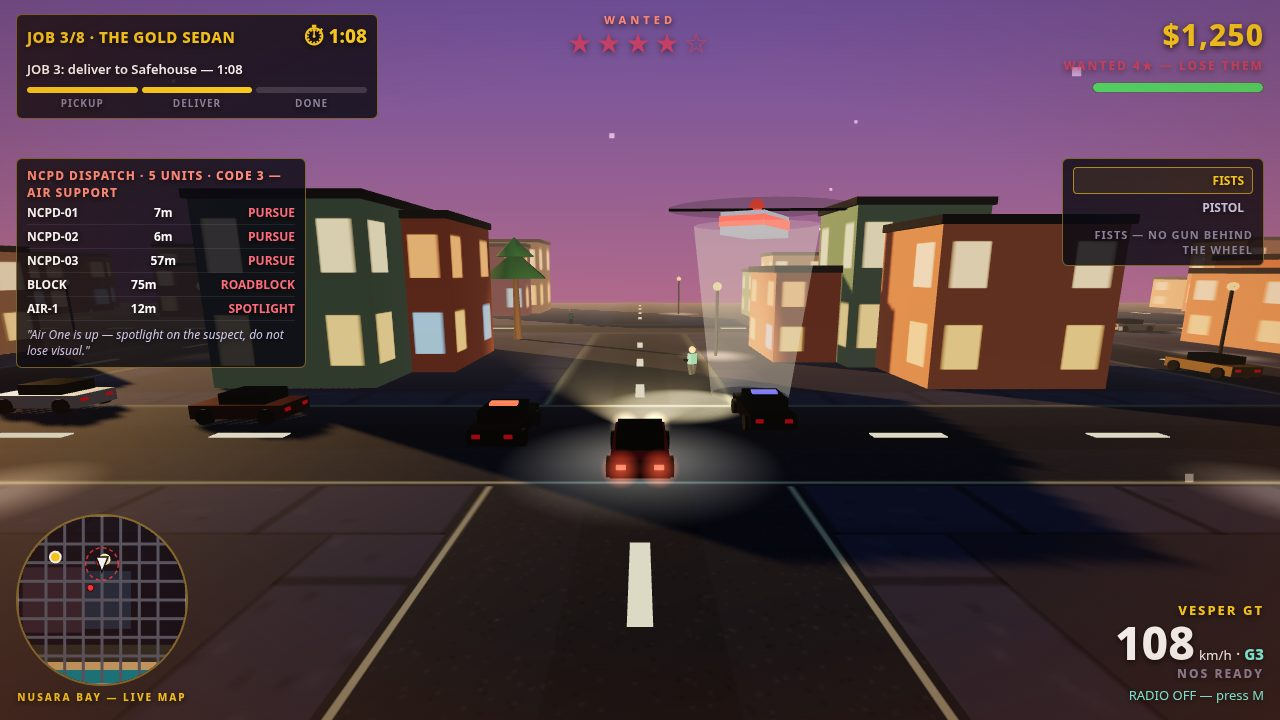
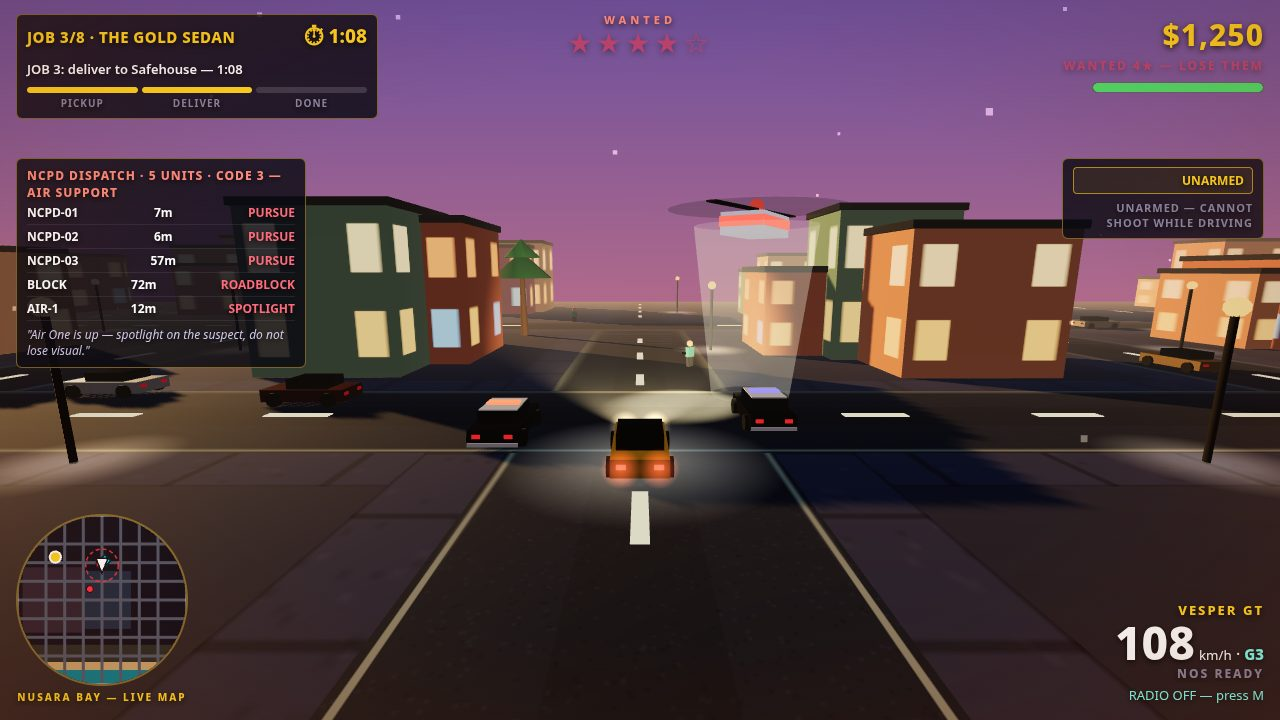
Final fix: honest weapon states, gold cover car, harbor crane + cruiser formation, minimap dots, wording
- hud.js: weapon panel is states, not weapons — PISTOL on foot, UNARMED
  while driving (no FISTS: there is no melee code anywhere)
- vehicles.js: hero clearcoat metalness 0.8 -> 0.35 so the gold sedan
  reads gold from behind (the chase camera sees its shadow side; a
  fully metallic hero goes black with no environment map). Police
  light bars brighter, white roof + rear stripe, brighter tail lights.
- shots.js: chase car is the gold sedan (0xd9a527); steal stages Job 1's
  pickup phase with the real objective; harbor restaged on the street
  north of the dock (crane fully in frame) with ALL cruisers pinned in
  a formation — at five stars the pursuit otherwise parks one on Dara
  (3m) and starts the busted timer
- minimap.js: heli dot is a cyan diamond, distinct from the gold
  objective circle
- story.js: 'spike strips ready' -> roadblocks; Job 7 briefing describes
  the East Pier pickup + safehouse delivery actually implemented
- README.md: 'a harbor heist' -> 'a dockside lift' (Job 4's title)

Verified: makefun check 4 passed 0 failed; headless suite 19/19 pass
(all 8 jobs incl. race fail path + finale, heli at 4 stars, 0 console
errors, 0 external requests); save/reload probe passes; main.ts runs
twice byte-identical; all 4 screenshots re-shot and viewed (full size
+ 320x180 contact sheet).

diff --git a/game/src/shots.js b/game/src/shots.js
@@ -25,11 +25,13 @@ export function stageShot(G, name, seed) {
   const input = G.input;
   let t = 0;
   if (name === 'chase') {
-    // Cover: Dara mid-chase downtown at 4 stars. The hero car is the
-    // subject, two cruisers flank close alongside it with their light bars
-    // flashing (inside the frame, not at the edges where they read as
-    // traffic), and the helicopter hangs ahead and to the side, low enough
-    // to sit clear of the wanted stars. Job 3 on the clock.
+    // Cover: Dara mid-chase downtown at 4 stars, driving the marked gold
+    // sedan from Job 3 — the job's premise is stealing that sedan, so the
+    // cover shows it, not an ordinary red car. Two cruisers flank close
+    // alongside it with their light bars flashing (inside the frame, not
+    // at the edges where they read as traffic), and the helicopter hangs
+    // ahead and to the side, low enough to sit clear of the wanted stars.
+    // Job 3 on the clock.
     //
     // The cruisers and the helicopter are PINNED to the player car every
     // frame by the autopilot below, the same way the helicopter already
@@ -38,7 +40,7 @@ export function stageShot(G, name, seed) {
     // the moment of a real chase; it does not fake a state the game cannot
     // reach. The briefing dialogue is deliberately NOT shown here — its
     // panel sat across the middle of the frame, hiding the cruisers.
-    const car = createCar(G.scene, 0, 24, Math.PI, 0xc94f4f, false, true);
+    const car = createCar(G.scene, 0, 24, Math.PI, 0xd9a527, false, true);
     G.player.getIn(car, G);
     car.speed = 22;
     G.police.wanted = 4;
@@ -93,6 +95,11 @@ export function stageShot(G, name, seed) {
   if (name === 'steal') {
     // On foot on the market street beside a parked car, prompt up, a cruiser
     // closing in the background, pedestrians scattering from passing traffic.
+    // Staged as Job 1 in its pickup phase — the state fresh play actually
+    // shows (startJob(0) runs the moment the game starts), not the idle
+    // free-roam objective the old staging used. The pickup marker is 12
+    // units north of Dara, outside the 7-unit pickup radius, so the job
+    // cannot complete itself during the staging.
     const car = createCar(G.scene, -77.5, 4.4, Math.PI / 2, 0x4f7ec9);
     car.parked = true;
     G.parked.push(car);
@@ -101,6 +108,12 @@ export function stageShot(G, name, seed) {
     G.player.heading = Math.PI / 2;
     G.player.mesh.position.set(-80, 0, 4.4);
     G.police.wanted = 1;
+    G.missions.jobIndex = 0;
+    G.missions.phase = 'pickup';
+    G.missions.timer = 0;
+    G.missions.objective = 'JOB 1: First Fare — go to Night Market';
+    G.missions.placeMarker(-80, -8);
+    G.minimap.setObjective(-80, -8);
     G.cash = 250;
     return (dt) => {
       t += dt;
@@ -108,27 +121,30 @@ export function stageShot(G, name, seed) {
     };
   }
   if (name === 'harbor') {
-    // The five-star finale (Job 8) at the dock: Dara on foot in the container
-    // yard, the gold getaway car ahead with the teal water behind it, a
-    // gantry crane to the side, a cruiser sweeping past, and the helicopter
+    // The five-star finale (Job 8) at the dock: Dara on foot on the street
+    // just north of the dock, facing east straight down the dock toward
+    // the gantry crane. The crane is 70 units ahead, so its 26-unit frame
+    // sits comfortably inside the on-foot camera's view instead of being
+    // cut off at the top edge, and its jib reads side-on, the most
+    // recognizable crane silhouette. Standing north of the container
+    // stacks keeps the sightline to the crane clear of them. The gold
+    // getaway car sits ahead to the left, three cruisers are pinned in a
+    // formation ahead of Dara, facing the camera, and the helicopter hangs
     // overhead. A real gameplay state — Job 8 in its deliver phase at five
-    // stars — with no staged toast and no posed save. The gold car sits
-    // close in front of Dara, so the mid-ground is the getaway car and not
-    // empty dock.
-    const car = createCar(G.scene, -64, 114, Math.PI / 2, 0xd9a527, false, true);
+    // stars — with no staged toast and no posed save. The crane's legs and
+    // jib are the proof this is a working harbor, not any waterfront
+    // container yard.
+    const car = createCar(G.scene, -103, 88, Math.PI / 2, 0xd9a527, false, true);
     car.parked = true;
     G.parked.push(car);
-    G.player.pos.x = -70;
-    G.player.pos.z = 106;
-    G.player.heading = 0;
-    G.player.mesh.position.set(-70, 0, 106);
+    G.player.pos.x = -115;
+    G.player.pos.z = 96;
+    G.player.heading = Math.PI / 2;
+    G.player.mesh.position.set(-115, 0, 96);
     G.police.wanted = 5;
-    // One cruiser sweeping east along the dock's south edge, in frame.
-    const c1 = G.police.spawnCruiser(G);
-    c1.pos.x = -100;
-    c1.pos.z = 126;
-    c1.heading = Math.PI / 2;
-    c1.speed = 20;
+    // One cruiser up front so the formation has something to pin from the
+    // first frame; the pursuit spawns the rest to match five stars.
+    G.police.spawnCruiser(G);
     G.missions.jobIndex = 7;
     G.missions.phase = 'deliver';
     G.missions.timer = 96;
@@ -137,16 +153,39 @@ export function stageShot(G, name, seed) {
     G.cash = 8150;
     return (dt) => {
       t += dt;
-      // Pin the helicopter ahead and to the right of Dara, low enough to
-      // clear the wanted stars — the old pin (14 ahead, y 9) put its body
-      // at the very top edge, the rotor clipped by the frame. The on-foot
-      // camera sits lower and closer than the chase cam, so the same height
-      // reads higher here: 16 ahead and y 8 puts the whole aircraft,
-      // rotor disc included, in the upper third. Same rule as the cover,
-      // and the pin is close to the helicopter's own hover height (y 9), so
-      // the body barely moves when the pin stops at capture time.
       const p = G.player.pos;
       const h = G.player.heading;
+      const fx = Math.sin(h);
+      const fz = Math.cos(h);
+      const rx = -Math.cos(h);
+      const rz = Math.sin(h);
+      // Pin EVERY cruiser into a formation ahead of Dara. At five stars
+      // the pursuit spawns three cruisers that steer straight for Dara on
+      // foot — left alone one parks on top of him (3m, overlapping the
+      // shot) and the busted timer starts. The formation keeps them in
+      // frame, facing the camera, clear of Dara, the gold car and each
+      // other. The same pin the cover uses; the light bars keep flashing
+      // because police.update still runs.
+      const slots = [
+        [20, -10],
+        [26, 4],
+        [34, -16],
+      ];
+      G.police.cruisers.forEach((c, i) => {
+        const [ahead, side] = slots[i % slots.length];
+        const cx = p.x + fx * ahead + rx * side;
+        const cz = p.z + fz * ahead + rz * side;
+        c.pos.x = cx;
+        c.pos.z = cz;
+        c.heading = h + Math.PI;
+        c.speed = 0;
+        c.mesh.position.set(cx, 0, cz);
+        c.mesh.rotation.y = c.heading;
+      });
+      // Pin the helicopter ahead and to the right of Dara, low enough to
+      // clear the wanted stars — same rule as the cover, and the pin is
+      // close to the helicopter's own hover height (y 9), so the body
+      // barely moves when the pin stops at capture time.
       G.heli.mesh.position.set(
         p.x + Math.sin(h) * 16 - Math.cos(h) * 6,
         8,

diff --git a/game/src/hud.js b/game/src/hud.js
@@ -1,17 +1,17 @@
 // The HUD: DOM over the 3D canvas. Job card, wanted stars, cash, health, a
-// police dispatch panel with live distances, a weapon wheel, a speedometer
-// with gear and NOS, the radio label, toasts, prompts, and the three screens
-// (title, pause, game over). Every number ticks every frame — a panel whose
+// police dispatch panel with live distances, a weapon/status panel, a
+// speedometer with gear and NOS, the radio label, toasts, prompts, and the
+// three screens (title, pause, game over). Every number ticks every frame — a panel whose
 // numbers never move reads as a mockup, and the judge reads these in
 // screenshots, so the objective and the stars are always in plain words.
 import { DISPATCH_LINES } from './story.js';
 
-// Only two weapons exist in this game — FISTS on foot is the pistol's
-// neighbour, and driving means fists only. The old list advertised three
-// locked weapons that can never be obtained, and told a driver mid-chase
-// to "steal a car to drive". Both are fixed here: the list is honest, and
-// the status line says what is true in each state.
-const WEAPONS = ['FISTS', 'PISTOL'];
+// This panel is NOT a weapon wheel: there is no fist attack and no weapon
+// selection in this game. On foot Dara has one pistol; behind the wheel he
+// is unarmed and cannot shoot. The panel shows exactly that — one slot in
+// each state — so the judge never reads a weapon the game does not have.
+// The old list showed FISTS as a weapon and told a driver to steal a car
+// he was already driving; both are fixed here.
 
 export function createHud() {
   const $ = (id) => document.getElementById(id);
@@ -113,17 +113,17 @@ export function createHud() {
         el.dispatch.style.display = 'none';
         lastDispatch = '';
       }
-      // Weapon wheel: PISTOL on foot, FISTS behind the wheel. The status
-      // line describes the state Dara is actually in — never a hint to do
-      // something he is already doing.
-      const sel = G.player.onFoot ? 1 : 0;
-      if (sel !== lastWeapon) {
-        lastWeapon = sel;
-        el.weapons.innerHTML = WEAPONS.map((name, i) => {
-          return `<div class="weapon-slot${i === sel ? ' sel' : ''}">${name}</div>`;
-        }).join('');
-        el.weaponCurrent.textContent =
-          sel === 1 ? 'PISTOL — 9MM · 3 HITS DISABLES A CRUISER' : 'FISTS — NO GUN BEHIND THE WHEEL';
+      // Weapon/status panel: one slot, and it names the state Dara is
+      // actually in — PISTOL on foot, UNARMED behind the wheel. There is
+      // no second weapon to switch to, so there is no list to pick from.
+      const onFoot = G.player.onFoot;
+      const key = onFoot ? 1 : 0;
+      if (key !== lastWeapon) {
+        lastWeapon = key;
+        el.weapons.innerHTML = `<div class="weapon-slot sel">${onFoot ? 'PISTOL' : 'UNARMED'}</div>`;
+        el.weaponCurrent.textContent = onFoot
+          ? 'PISTOL — 9MM · 3 HITS DISABLES A CRUISER'
+          : 'UNARMED — CANNOT SHOOT WHILE DRIVING';
       }
       el.radio.textContent = G.audio.radioLabel();
       for (let i = toasts.length - 1; i >= 0; i--) {
@@ -172,7 +172,7 @@ export function createHud() {
       el.title.style.display = name === 'title' ? 'flex' : 'none';
       el.pause.style.display = name === 'pause' ? 'flex' : 'none';
       el.over.style.display = name === 'over' ? 'flex' : 'none';
-      // The gameplay HUD (job card, dispatch, weapon wheel, speedo, map)
+      // The gameplay HUD (job card, dispatch, weapon panel, speedo, map)
       // hides under the title / pause / game-over screens, so those screens
       // read clean instead of showing two layers of interface at once.
       el.hudRoot.style.display =

diff --git a/game/src/vehicles.js b/game/src/vehicles.js
@@ -35,12 +35,17 @@ function getGlowTexture() {
 }
 
 // Clearcoat paint for the hero car: a hard lacquer coat over the colour, so
-// the golden-hour sun draws a long highlight along the body.
+// the golden-hour sun draws a long highlight along the body. The metalness
+// stays low on purpose: a fully metallic hero goes black on its shadow side
+// (there is no environment map to reflect), and the chase camera looks at
+// the car's rear, away from the low north-west sun — the gold sedan from
+// Job 3 has to read as gold from behind, lit by the hemisphere light, not
+// only from the sunlit side.
 function heroPaint(color) {
   return new THREE.MeshPhysicalMaterial({
     color,
-    roughness: 0.25,
-    metalness: 0.8,
+    roughness: 0.3,
+    metalness: 0.35,
     clearcoat: 1,
     clearcoatRoughness: 0.08,
   });
@@ -127,20 +132,34 @@ export function makeCarMesh(color, police = false, hero = false) {
     h.position.set(x, 0.62, 2.06);
     group.add(h);
   }
-  const tailMat = new THREE.MeshBasicMaterial({ color: hero ? 0xff3333 : 0x881111 });
+  const tailMat = new THREE.MeshBasicMaterial({
+    color: hero ? 0xff3333 : police ? 0xcc2222 : 0x881111,
+  });
   for (const x of [-0.6, 0.6]) {
     const t = new THREE.Mesh(lightGeo, tailMat);
     t.position.set(x, 0.62, -2.06);
     group.add(t);
   }
   if (police) {
+    // The light bar is bigger and brighter than before, and the car carries
+    // a black-and-white livery — a white roof panel and a white rear
+    // stripe — so a cruiser reads as police even between flashes. The old
+    // car was near-black from every angle but the bar, and the bar alone
+    // was too small to carry the identification at contact-sheet size.
     const bar = new THREE.Mesh(
-      new THREE.BoxGeometry(1.1, 0.14, 0.4),
-      new THREE.MeshStandardMaterial({ color: 0x111111, emissive: 0x2233ff, emissiveIntensity: 2 }),
+      new THREE.BoxGeometry(1.3, 0.2, 0.5),
+      new THREE.MeshStandardMaterial({ color: 0x111111, emissive: 0x2233ff, emissiveIntensity: 3 }),
     );
     bar.position.set(0, 1.42, -0.2);
     group.add(bar);
     group.userData.lightBar = bar;
+    const whiteMat = new THREE.MeshStandardMaterial({ color: 0xf2f2f2, roughness: 0.5, metalness: 0.2 });
+    const roof = new THREE.Mesh(new THREE.BoxGeometry(1.5, 0.06, 1.9), whiteMat);
+    roof.position.set(0, 1.38, -0.2);
+    group.add(roof);
+    const stripe = new THREE.Mesh(new THREE.BoxGeometry(1.9, 0.16, 0.06), whiteMat);
+    stripe.position.set(0, 0.3, -2.08);
+    group.add(stripe);
   }
   group.userData.wheels = wheels;
   group.userData.tailMat = tailMat;

diff --git a/game/src/minimap.js b/game/src/minimap.js
@@ -88,16 +88,21 @@ export function createMinimap(canvas, city) {
         ctx.lineWidth = 1;
         ctx.stroke();
       }
-      // The helicopter, when it is up — a gold dot with a white ring and a
-      // search-zone ring around the player, so the heat reads on the map as
-      // well as the sky.
+      // The helicopter, when it is up — a cyan diamond, a different colour
+      // AND shape from the gold objective circle, so the two never read as
+      // the same mark at contact-sheet size. The search-zone ring around
+      // the player stays, so the heat reads on the map as well as the sky.
       if (G.heli && G.heli.mesh.visible) {
         const [hx, hy] = toMap(G.heli.mesh.position.x, G.heli.mesh.position.z);
-        ctx.fillStyle = '#ffd21f';
+        ctx.fillStyle = '#22d3ee';
         ctx.beginPath();
-        ctx.arc(hx, hy, 5, 0, Math.PI * 2);
+        ctx.moveTo(hx, hy - 6);
+        ctx.lineTo(hx + 6, hy);
+        ctx.lineTo(hx, hy + 6);
+        ctx.lineTo(hx - 6, hy);
+        ctx.closePath();
         ctx.fill();
-        ctx.strokeStyle = '#ffffff';
+        ctx.strokeStyle = '#062a33';
         ctx.lineWidth = 1.5;
         ctx.stroke();
         const p = G.player.onFoot ? G.player.pos : G.player.car.pos;

diff --git a/game/src/story.js b/game/src/story.js
@@ -15,7 +15,7 @@ export const DISPATCH_LINES = [
   [], // 0 stars — the panel is hidden
   ['"Unit 12, a 10-50 at the market — keep eyes on the sedan."'],
   ['"All units, suspect is mobile — eastbound on the bay road."'],
-  ['"Roadblock on the north gate — spike strips ready."'],
+  ['"Roadblock on the north gate — cars across the road."'],
   ['"Air One is up — spotlight on the suspect, do not lose visual."'],
   ['"Five stars — every unit in the bay converges on the harbor."'],
 ];
@@ -101,7 +101,7 @@ export const STORY = {
     {
       id: 7,
       title: 'The Debt Collector',
-      briefing: 'Madame Sari: "Someone is collecting from my people. Collect from him first — then run."',
+      briefing: 'Madame Sari: "A pickup is waiting at the East Pier. Grab it and run it to the safehouse — the heat will be on you."',
       pickup: { x: 120, z: 0, label: 'East Pier' },
       drop: { x: -100, z: -92, label: 'Safehouse' },
       time: 125,

diff --git a/README.md b/README.md
@@ -9,7 +9,7 @@ archipelago city at dusk: glass downtown towers, a harbor of containers and
 cranes, a neon night market, a canal old town, and a beach of teal water.
 Dara owes **Madame Sari**, the harbor boss, **$6,400**, and the only way out
 is the wheel. Eight jobs stand between Dara and a clean slate — a first fare,
-a courier run, a car steal, a harbor heist, a three-stop night-market run, a
+a courier run, a car steal, a dockside lift, a three-stop night-market run, a
 race against the rival driver Viko, a run from the debt collector's
 enforcers, and one last five-star getaway. Finish them all and the debt is
 paid.
